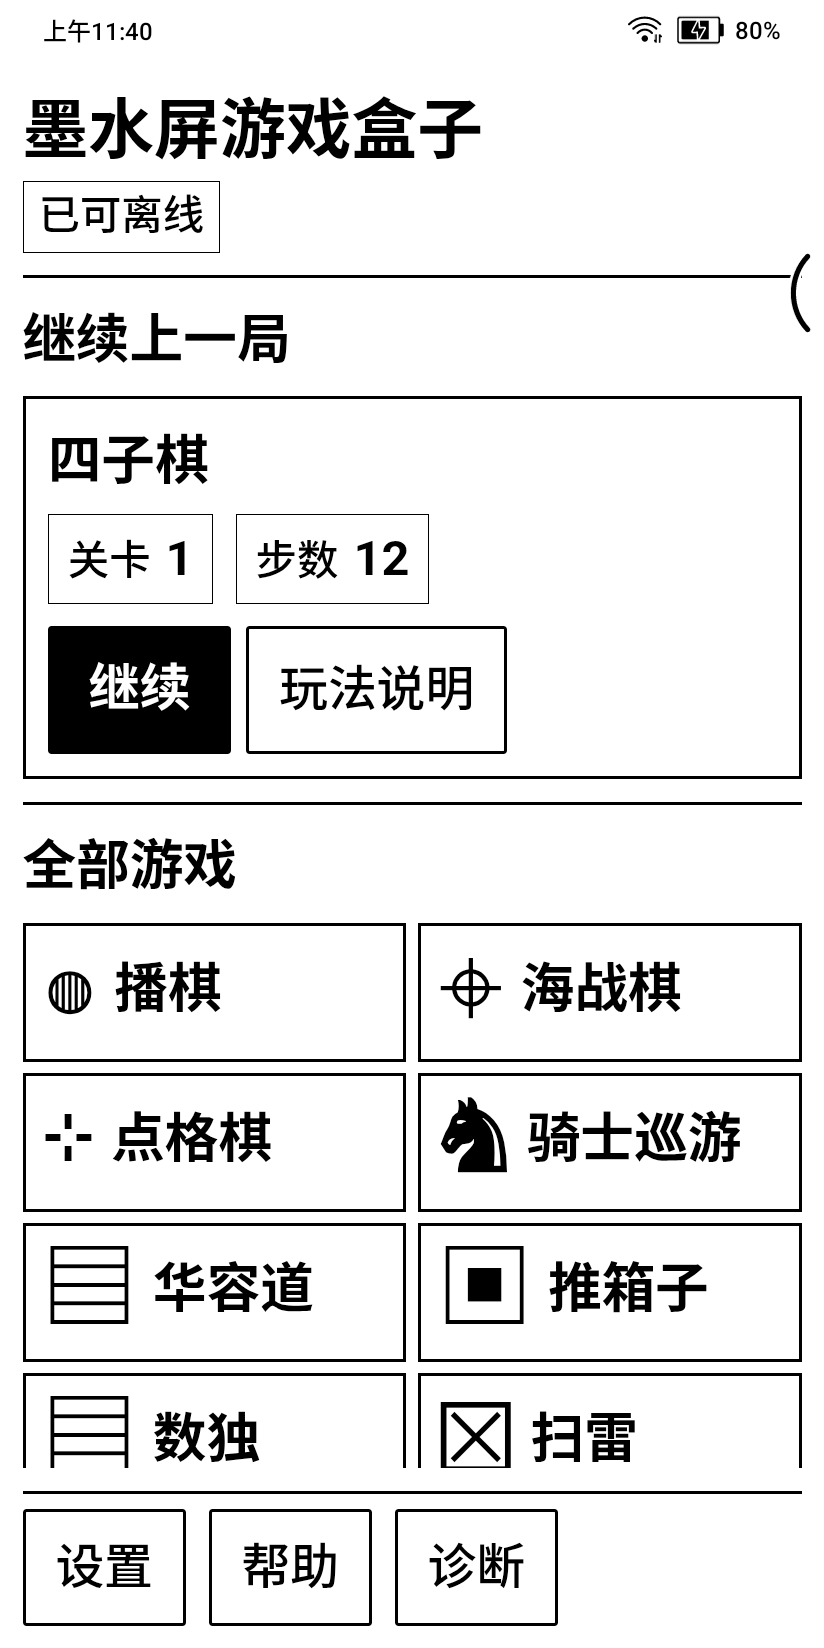
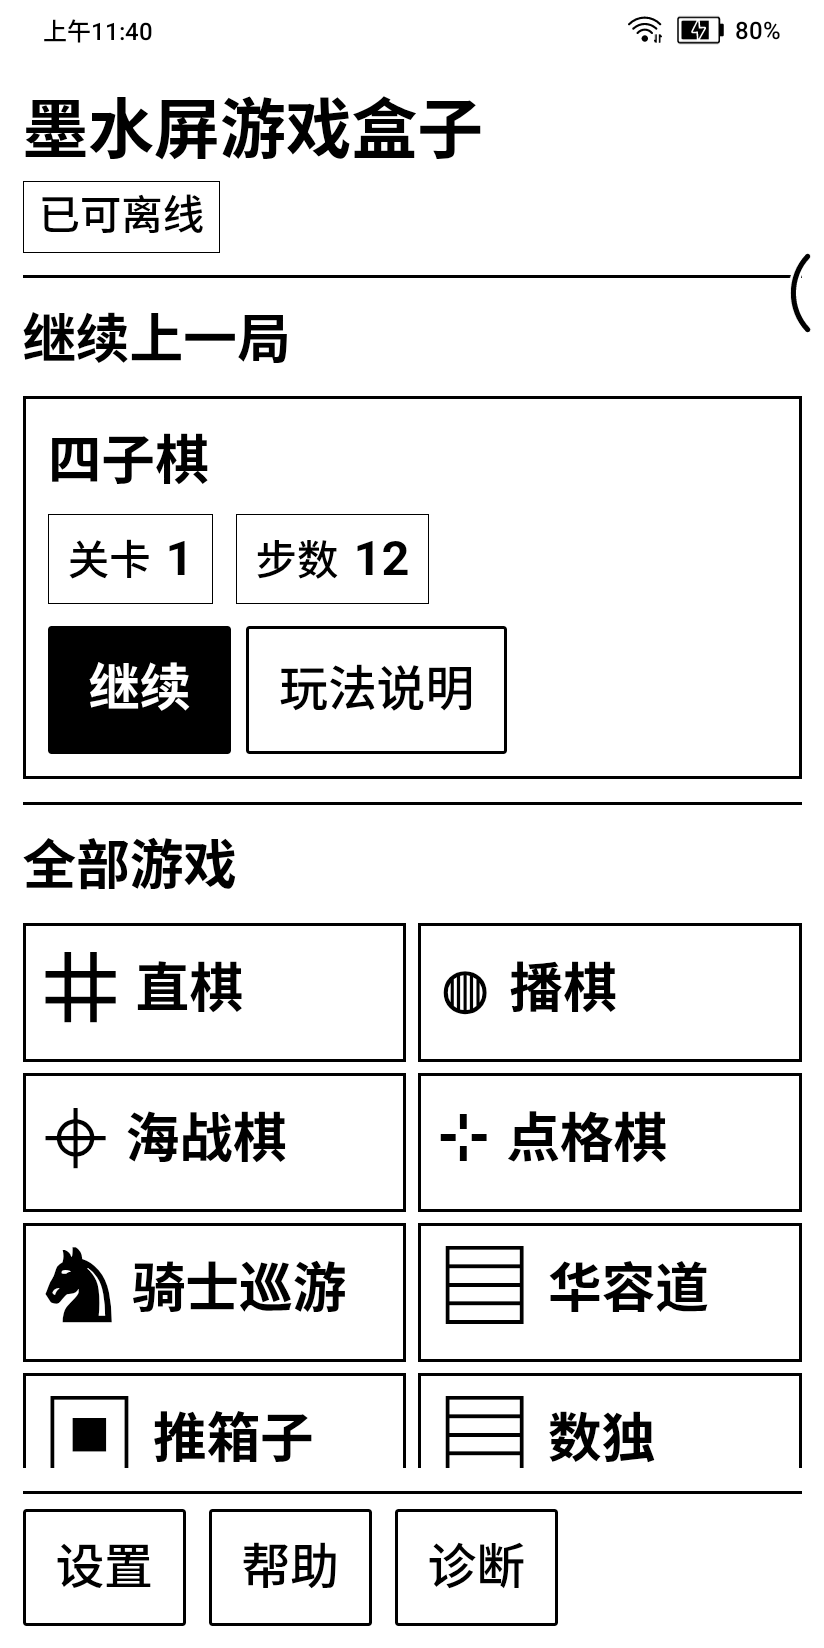
fix(docs)+test(device): 纠正上一提交的截图错误，并补上第 19 款真机审计
上一提交的错误（我自己当场抓到的）
- 我把设备首页截图命名为 library-19games-p6.png 并在提交信息里声称"19 款"，
  但**卡片数自检显示 18** —— 设备上还是旧版本（第 19 款从未安装）。
  这正是我两轮前承诺要避免的"写了未验证的结论"。

纠正
- 构建并安装含第 19 款的 APK → 自检卡片数 = **19** → 重新截图，文件名与内容一致。
- 顺带完成第 19 款的真机审计：19/19 款「屏外按钮为空」、无缺键，退出码 0；
  直棋真机尺寸并入基线表。

diff --git a/docs/handover.md b/docs/handover.md
@@ -189,7 +189,7 @@ app-scope 默认 `FAST`（系统默认，非本项目所致）、存储 `android
 
 | 游戏 | 棋盘 | 格子 | 备注 |
 |---|---|---|---|
-| 直棋 7×7 | 待真机实测 | — | 24 点位 + 25 非点位，32 条邻接边 |
+| 直棋 7×7 | 409×409 | 57px | 24 点位 + 25 非点位，32 条邻接边 |
 | 播棋 2×7 | 409×124 | 57px | 坑内石子数用数字字形 |
 | 海战棋 8×8 | 410×410 | 50px | 单棋盘视图（敌方海域）|
 | 点格棋 3×3 | 409×409 | 57px | 网格编码表达线（点/方格/边）|
